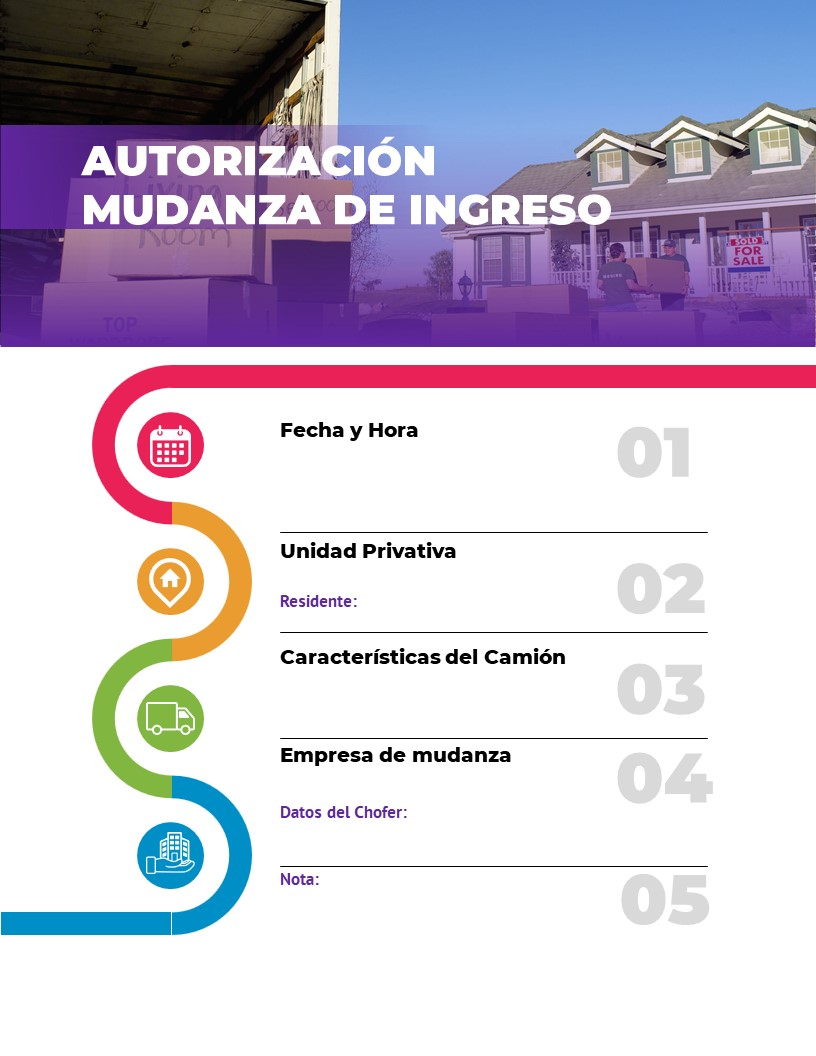
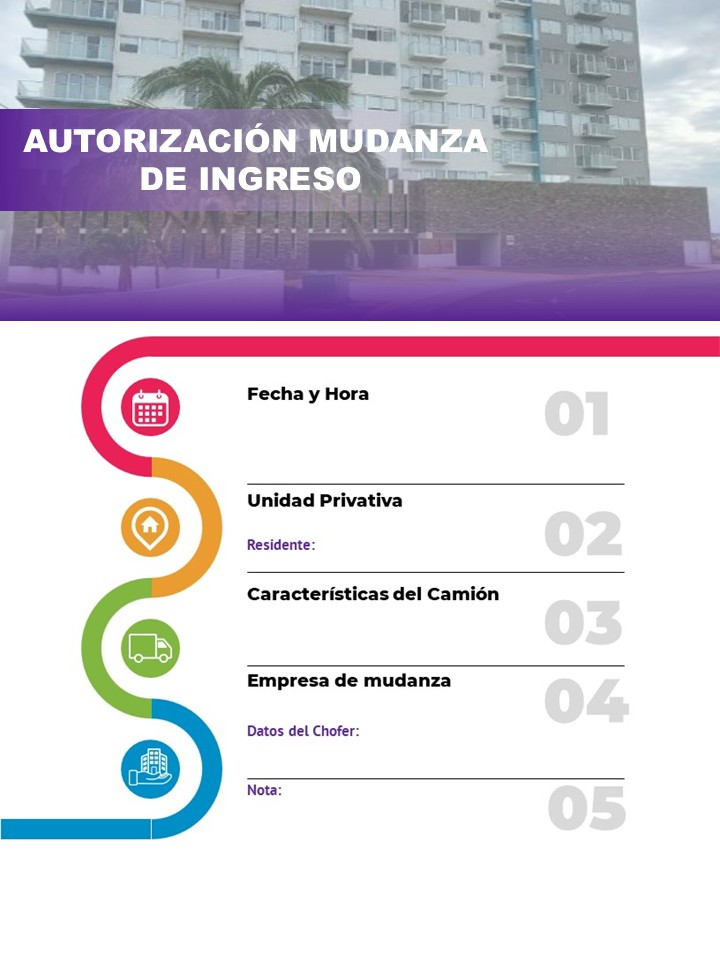
Cambio de imagen de fondo y ajuste de textos

diff --git a/src/form.jsx b/src/form.jsx
@@ -14,7 +14,7 @@ function Form() {
     empresaMudanza: '',
     datosChofer: '',
     notas: '',
-    nombreCondominio: 'Xiris',
+    nombreCondominio: 'Condominio Xiris',
   });
 
   const handleChange = (e) => {
@@ -165,7 +165,7 @@ function Form() {
         <div style={{ position: 'absolute', top: '530px', left: '278px', color: 'black', fontSize: '18px' }}>
           {formData.unidadPrivativa}
         </div>
-        <div style={{ position: 'absolute', top: '575px', left: '274px', color: 'black', fontSize: '18px' }}>
+        <div style={{ position: 'absolute', top: '570px', left: '274px', color: 'black', fontSize: '18px' }}>
           {formData.nombreResidente}
         </div>
         {formData.tipoResidente === 'Inquilino' && (
@@ -178,7 +178,7 @@ function Form() {
             <div key={index}>{line}</div>
           ))}
         </div>
-        <div style={{ position: 'absolute', top: '730px', left: '275px', color: 'black', fontSize: '18px' }}>
+        <div style={{ position: 'absolute', top: '720px', left: '275px', color: 'black', fontSize: '18px' }}>
           {formData.empresaMudanza}
         </div>
         <div style={{ position: 'absolute', top: '775px', left: '275px', color: 'black', fontSize: '18px', whiteSpace: 'pre-wrap' }}>
@@ -191,7 +191,7 @@ function Form() {
             <div key={index}>{line}</div>
           ))}
         </div>
-        <div style={{ position: 'absolute', top: '254px', left: '564px', color: 'white', fontSize: '48px', textTransform: 'uppercase' }}>
+        <div style={{ position: 'absolute', top: '254px', left: '324px', color: 'white', fontSize: '48px', textTransform: 'uppercase' }}>
           {formData.nombreCondominio}
         </div>
       </div>
